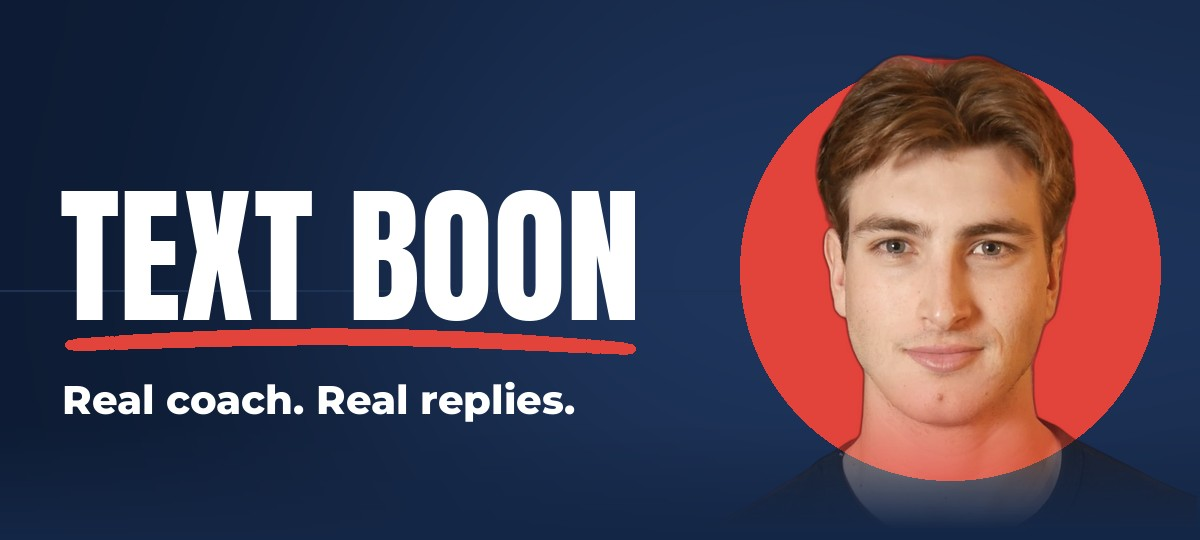
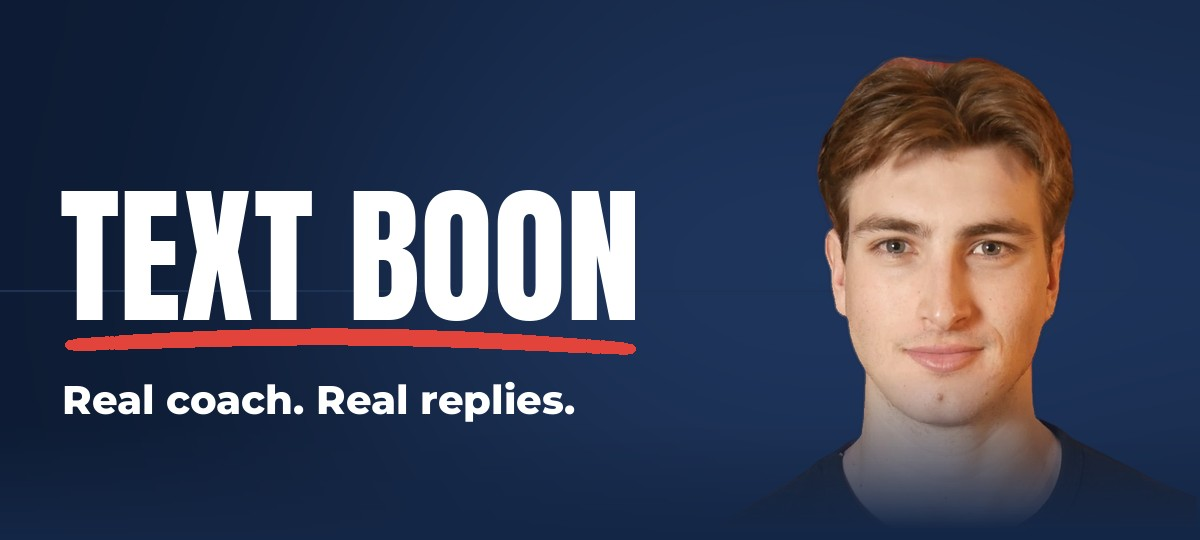
Food photos on every meal and eat-out pick, Plan tabs start with Stack, Overview last; Boon header without red background
Claude-Session: https://claude.ai/code/session_01Bf86E4ucw6eJutAMhaLVMs

Changed region(s): [[0.6167, 0.1185, 0.9867, 0.8889], [0.74, 0.0889, 0.8325, 0.1185], [0.8325, 0.1185, 0.8633, 0.1481]]

diff --git a/app/(tabs)/plan.tsx b/app/(tabs)/plan.tsx
@@ -1,5 +1,5 @@
 import React, { useState } from 'react';
-import { Linking, Pressable, StyleSheet, Text, View } from 'react-native';
+import { Image, Linking, Pressable, StyleSheet, Text, View } from 'react-native';
 import { useAuth } from '../../src/lib/auth';
 import { C, F } from '../../src/lib/theme';
 import { Body, Card, Eyebrow, H1, s as ui } from '../../src/components/ui';
@@ -14,15 +14,16 @@ import HeroCard from '../../src/components/HeroCard';
 const PLAN_IMG = require('../../assets/hero/plan.jpg');
 const STACK_IMG = require('../../assets/hero/stack.jpg');
 import { productImage } from '../../src/lib/images';
+import { mealImage } from '../../src/lib/meals';
 
-const TABS = ['Overview', 'Stack', 'Meals', 'Eating out', 'Groceries'] as const;
+const TABS = ['Stack', 'Meals', 'Eating out', 'Groceries', 'Overview'] as const;
 type Tab = (typeof TABS)[number];
 
 const VERDICT_COLOR: Record<string, string> = { CUT: C.red, KEEP: C.green, SWAP: '#ffffff', ADD: C.green };
 
 export default function PlanTab() {
   const { plan, profile } = useAuth();
-  const [tab, setTab] = useState<Tab>('Overview');
+  const [tab, setTab] = useState<Tab>('Stack');
   if (!plan) return <NoPlan name={profile?.first_name} />;
   const saved = (plan.before ?? 0) - (plan.after ?? 0);
 
@@ -124,6 +125,7 @@ export default function PlanTab() {
               <View style={{ gap: 10 }}>
               {m.options.map((o, j) => (
                 <View key={j} style={st.option}>
+                  <FoodPhoto source={mealImage(o.name, o.detail)} />
                   <Text style={st.optName}>{o.name}</Text>
                   <Body style={{ fontSize: 13 }}>{o.detail}</Body>
                   <Text style={st.macro}>{o.kcal} cal · {o.protein} protein</Text>
@@ -137,6 +139,7 @@ export default function PlanTab() {
 
       {tab === 'Eating out' && (plan.eat_out || []).map((e, k) => (
         <Card key={k}>
+          <FoodPhoto source={mealImage(e.where, e.order)} />
           <Text style={st.item}>{e.where}</Text>
           <Body style={{ fontSize: 14 }}>{e.order}</Body>
           <Text style={st.macro}>{e.kcal} cal · {e.protein} protein</Text>
@@ -149,6 +152,14 @@ export default function PlanTab() {
     </Screen>
   );
 }
+
+/** Full-width food photo with rounded corners (hidden if we have no photo for it). */
+const FoodPhoto = ({ source }: { source: ReturnType<typeof mealImage> }) =>
+  source ? (
+    <View style={st.photo}>
+      <Image source={source} resizeMode="cover" accessibilityIgnoresInvertColors style={{ width: '100%', height: '100%' }} />
+    </View>
+  ) : null;
 
 const Num = ({ v, l }: { v: string; l: string }) => (
   <View style={{ width: '31%', gap: 2 }}><Text style={st.num}>{v}</Text><Text style={st.numL}>{l}</Text></View>
@@ -167,7 +178,8 @@ const st = StyleSheet.create({
   buy: { alignSelf: 'flex-start', height: 40, paddingHorizontal: 14, borderRadius: 10, backgroundColor: C.red, justifyContent: 'center' },
   buyText: { fontFamily: F.black, fontSize: 13, color: C.white, textTransform: 'uppercase' },
   pill: { fontFamily: F.black, fontSize: 11, letterSpacing: 1, paddingHorizontal: 8, paddingVertical: 4, borderRadius: 6, overflow: 'hidden', alignSelf: 'flex-start' },
-  option: { borderTopWidth: 1, borderTopColor: C.line, paddingTop: 10, gap: 4 },
+  option: { borderTopWidth: 1, borderTopColor: C.line, paddingTop: 14, gap: 4 },
+  photo: { width: '100%', aspectRatio: 16 / 10, borderRadius: 14, overflow: 'hidden', marginBottom: 8, backgroundColor: C.navy },
   optName: { fontFamily: F.xbold, fontSize: 15, color: C.white },
   macro: { fontFamily: F.xbold, fontSize: 12, color: C.green },
 });

diff --git a/src/lib/meals.ts b/src/lib/meals.ts
@@ -1,0 +1,54 @@
+import type { ImageSourcePropType } from 'react-native';
+
+/** Food photos for meals and eat-out orders. Brand photos for brand orders, real food photos for the rest. */
+export const MEAL_IMG = {
+  starbucks: require('../../assets/meals/starbucks.jpg'),
+  latte: require('../../assets/meals/latte.jpg'),
+  chipotle: require('../../assets/meals/chipotle.jpg'),
+  eggs: require('../../assets/meals/eggs.jpg'),
+  yogurt_bowl: require('../../assets/meals/yogurt_bowl.jpg'),
+  yogurt: require('../../assets/meals/yogurt.jpg'),
+  oats: require('../../assets/meals/oats.jpg'),
+  teriyaki: require('../../assets/meals/teriyaki.jpg'),
+  sandwich: require('../../assets/meals/sandwich.jpg'),
+  shake: require('../../assets/meals/shake.jpg'),
+  jerky: require('../../assets/meals/jerky.jpg'),
+  steak: require('../../assets/meals/steak.jpg'),
+  salmon: require('../../assets/meals/salmon.jpg'),
+  chicken_rice: require('../../assets/meals/chicken_rice.jpg'),
+  salad: require('../../assets/meals/salad.jpg'),
+  pizza: require('../../assets/meals/pizza.jpg'),
+  burger: require('../../assets/meals/burger.jpg'),
+  beer: require('../../assets/meals/beer.jpg'),
+} as const;
+
+const RULES: [RegExp, keyof typeof MEAL_IMG][] = [
+  [/starbucks|egg bites/i, 'starbucks'],
+  [/chipotle|burrito/i, 'chipotle'],
+  [/pizza/i, 'pizza'],
+  [/burger/i, 'burger'],
+  [/beer|drinks|bar\b/i, 'beer'],
+  [/latte|cold brew|coffee/i, 'latte'],
+  [/shake|smoothie/i, 'shake'],
+  [/jerky/i, 'jerky'],
+  [/sandwich|sub\b|wrap|deli/i, 'sandwich'],
+  [/salmon|fish|tuna|shrimp/i, 'salmon'],
+  [/steak|sirloin|beef/i, 'steak'],
+  [/teriyaki|stir.?fry|poke/i, 'teriyaki'],
+  [/\beggs?\b|omelet|scrambled/i, 'eggs'],
+  [/oat/i, 'oats'],
+  [/yogurt.*(bowl|granola)|parfait/i, 'yogurt_bowl'],
+  [/yogurt|cottage/i, 'yogurt'],
+  [/salad/i, 'salad'],
+  [/chicken|rice|bowl/i, 'chicken_rice'],
+  [/toast/i, 'eggs'],
+];
+
+/** Photo for a meal: matches on the name first, then the details. */
+export function mealImage(name: string, detail = ''): ImageSourcePropType | null {
+  for (const text of [name, detail]) {
+    const hit = RULES.find(([re]) => re.test(text));
+    if (hit) return MEAL_IMG[hit[1]];
+  }
+  return null;
+}

diff --git a/tools/make_headers.py b/tools/make_headers.py
@@ -132,11 +132,19 @@ def coach(out, kicker, word, tagline):
     """Boon tab: his cutout on the right, text on the left."""
     import numpy as np
     img = background(cx=0.68).convert('RGBA')
-    disc = Image.new('RGBA', (W, H), (0, 0, 0, 0))
-    ImageDraw.Draw(disc).ellipse([740, 60, 1160, 480], fill=RED + (255,))
-    img.alpha_composite(disc)
     cut = Image.open(SP + 'boon_cut.png').convert('RGBA')
     cut = cut.crop(cut.getbbox())
+    arr = np.array(cut).astype(int)
+    a = arr[..., 3]
+    edge = (a < 250) & (arr[..., 0] > arr[..., 1] + 40)
+    arr[..., 3] = np.where(edge, (a * 0.35).astype(int), a)
+    soft = a < 140
+    lim = (arr[..., 1] + arr[..., 2]) // 2 + 35
+    arr[..., 0] = np.where(soft, np.minimum(arr[..., 0], lim), arr[..., 0])
+    from PIL import ImageFilter as _F
+    cut = Image.fromarray(arr.astype('uint8'))
+    al = cut.getchannel('A').filter(_F.MinFilter(3))
+    cut.putalpha(al)
     s = 480 / cut.height; cut = cut.resize((int(cut.width * s), 480), Image.LANCZOS)
     g = Image.linear_gradient('L').resize(cut.size).point(lambda v: 255 if v < 170 else max(0, 255 - (v - 170) * 3))
     cut.putalpha(Image.fromarray(np.minimum(np.array(cut.getchannel('A')), np.array(g))))
